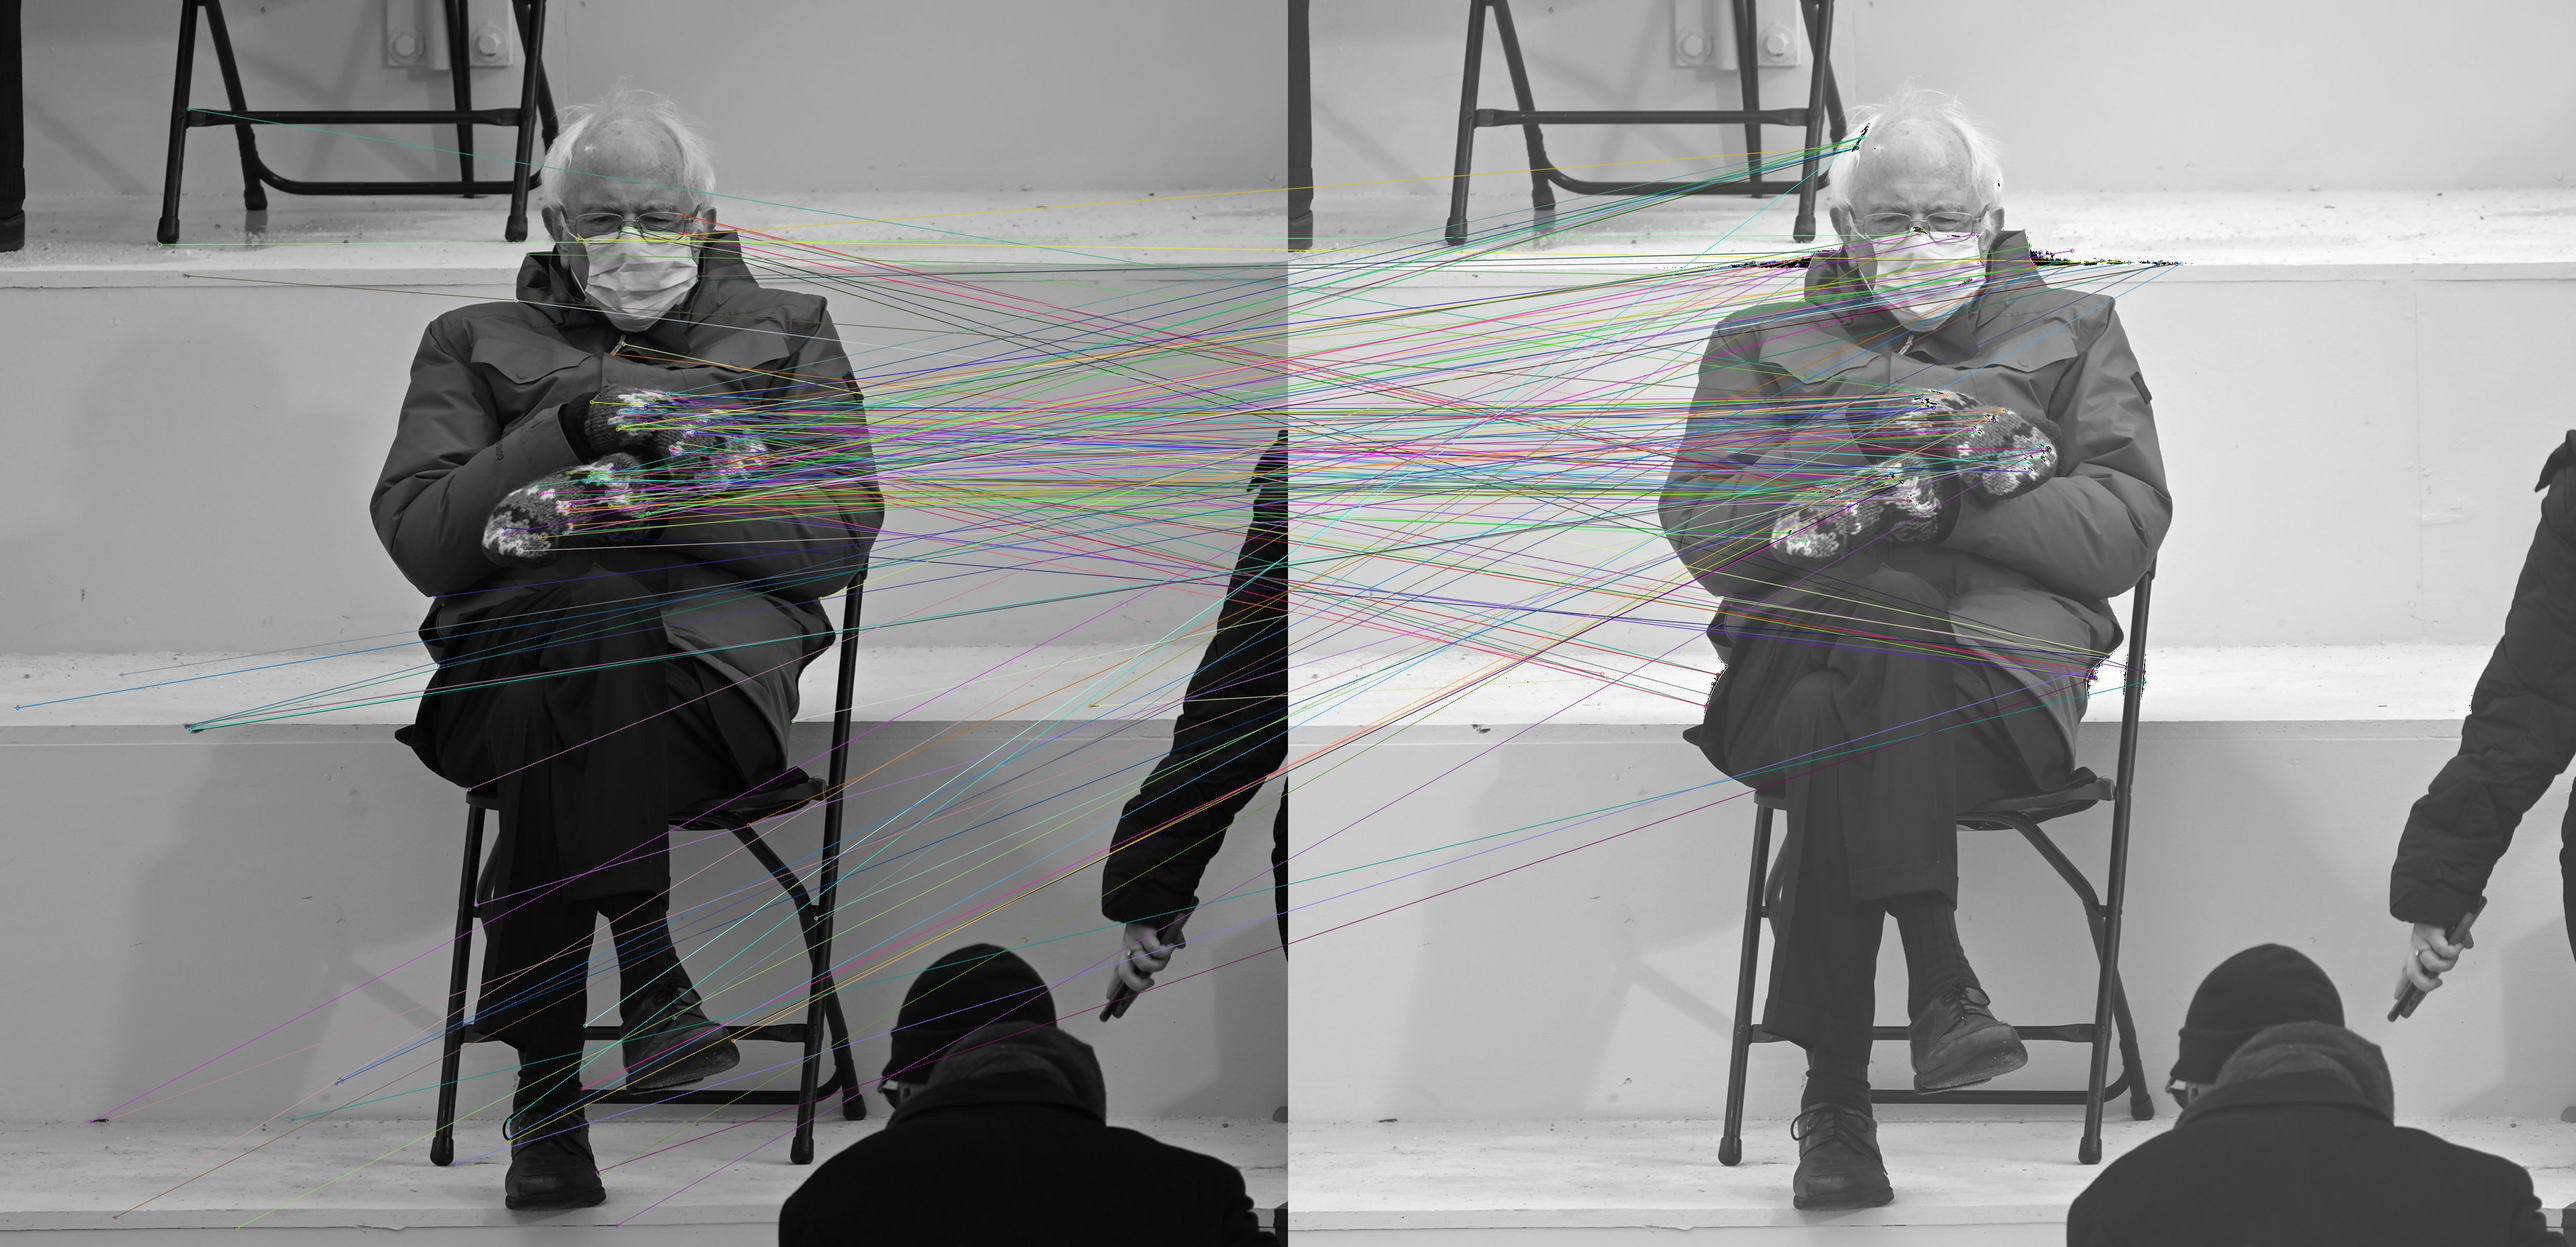
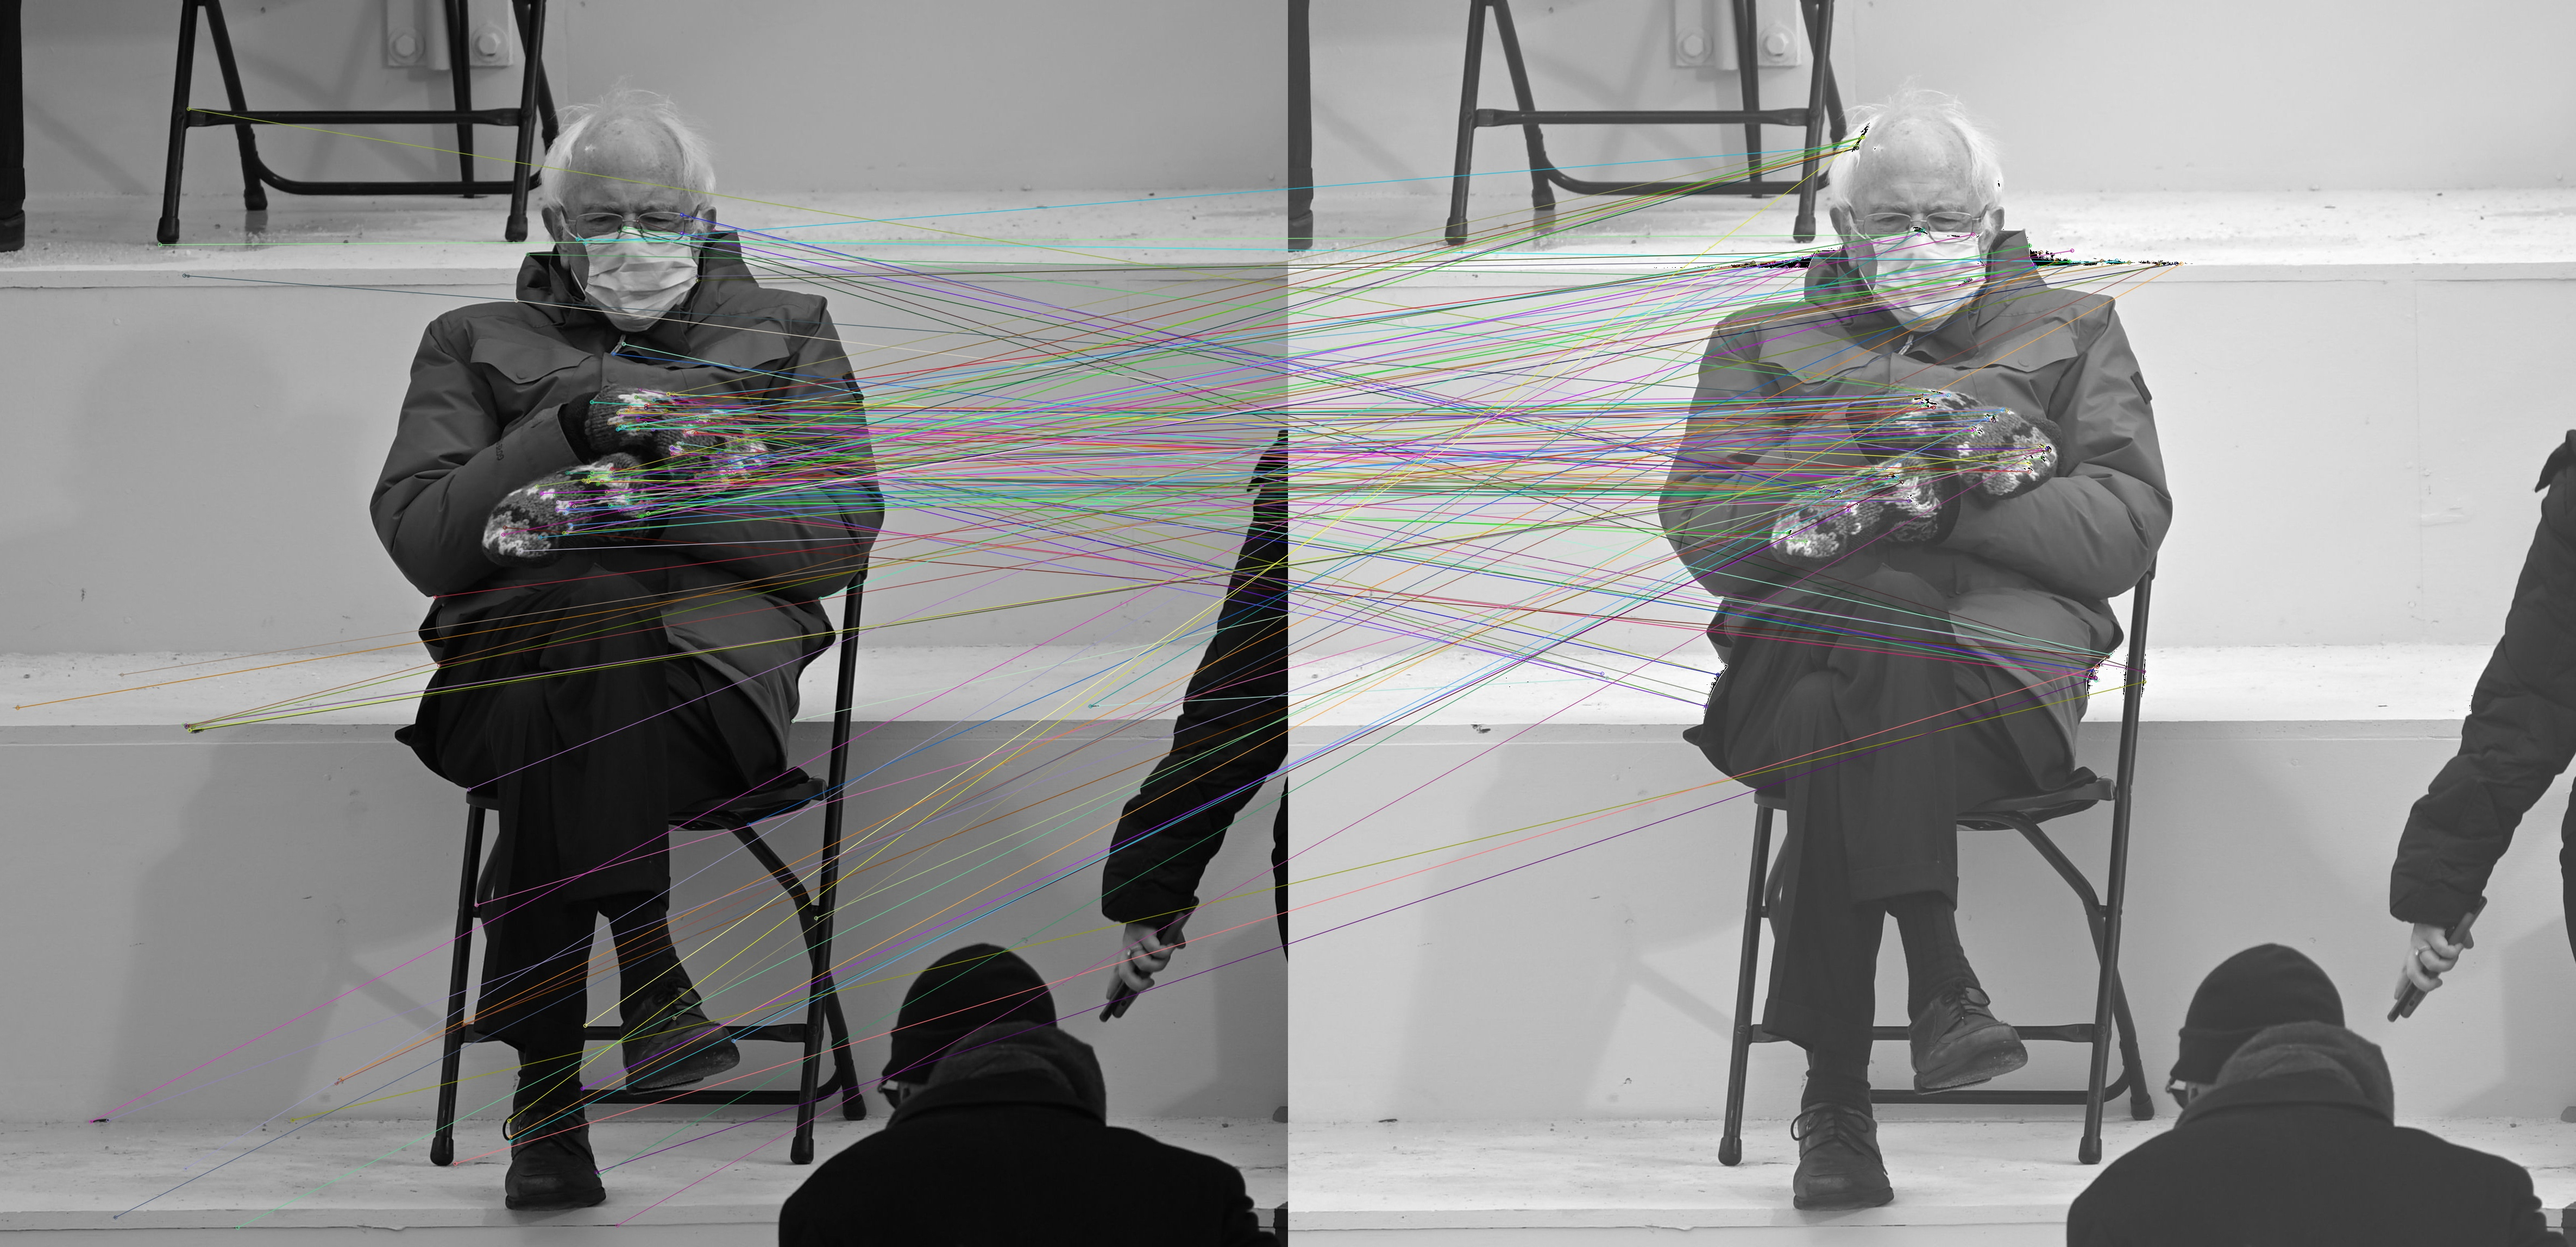
Changes, Turn and Face the Strange

diff --git a/bernie.py b/bernie.py
@@ -49,44 +49,51 @@ def ThresholdPoints(points, threshold):
     max = np.max(points)
     points = points * (points > max * threshold)
     return points
-    
+
 def GetThresholdPoints(points):
     '''Get the Number of Items lt that Threshold value '''
     arr = []
+    increments = [0.05 * i for i in range(1, 21)]  # Generate increments from 0.05 to 1.0 in steps of 0.05
 
-    for threshold in range(int(np.max(points)) + 1):
-        binary_image = points > threshold
+    max = np.max(points)
+
+    for inc in increments:
+        binary_image = points/max > inc
     
         # Count the number of keypoints
         num_keypoints = np.sum(binary_image)
 
         arr.append(num_keypoints)
 
-    return arr
+    return increments, arr
 
-def PlotGraph(points):
+def PlotGraph(points, path):
 
-    vals = GetThresholdPoints(points)
+    x, y = GetThresholdPoints(points)
 
     # Plot the Effect of the Threshold Value being Changed
-    plt.plot(vals)
+    plt.plot(x, y)
     plt.xlabel('Threshold Value')
     plt.ylabel('Number of Keypoints')
     plt.title('Number of Keypoints vs. Threshold Value')
     plt.grid(True)
-    plt.savefig("KeyPointsvThreshold.png")
+    plt.savefig("ThresholdGraphs/" + path)
+    plt.clf()
 
-def FeatureDescription(img, kp):
+def FeatureDescription(img, kp, path):
     # Initiate ORB detector
     orb = cv2.ORB_create()
 
     kps = ConvertToKeyPoints(kp)
     kps, my_des = orb.compute(img, kps)
+    img2 = cv2.drawKeypoints(img, kps, None, color=(0,255,0), flags=0)
+    cv2.imwrite("MyKeyPoints/" + path, img2)
 
 
     kp = orb.detect(img,None)
-
     kp, des = orb.compute(img, kp)
+    img2 = cv2.drawKeypoints(img, kp, None, color=(0,255,0), flags=0)
+    cv2.imwrite("ORBKeyPoints/" + path, img2)
 
     return my_des, kps
 
@@ -103,17 +110,18 @@ def ConvertToKeyPoints(arr):
 
 def ProcessImage(path):
     '''Return the Feature Descriptors and KPs'''
-    points, orien = HarrisPointDetector(path)
+    points, orien = HarrisPointDetector("Bernies/" + path)
+    PlotGraph(points, path)
     points = ThresholdPoints(points, 0.04)
-    bernie = ReadImage(path)
-    des, points = FeatureDescription(bernie, points)
+    bernie = ReadImage("Bernies/" + path)
+    des, points = FeatureDescription(bernie, points, path)
     return points, des
 
-def ssd(p1, p2):
+def SSD(p1, p2):
     # Get the Distance Between
     return np.linalg.norm(p1 - p2)
 
-def best_match(p1s, p2s, d1s, d2s, ratio):
+def BestMatch(p1s, p2s, d1s, d2s, ratio):
     '''Get the Best Matching Feature in Both'''
 
     arr = [[0 for _ in range(len(p2s))] for _ in range(len(p1s))]
@@ -121,7 +129,7 @@ def best_match(p1s, p2s, d1s, d2s, ratio):
     for i in range(len(d1s)):
         for j in range(len(d2s)):
             # Calculate the Distance Between Every Feature
-            arr[i][j] = ssd(d1s[i], d2s[j])
+            arr[i][j] = SSD(d1s[i], d2s[j])
 
     matches = []
 
@@ -145,7 +153,7 @@ def best_match(p1s, p2s, d1s, d2s, ratio):
     # Return the Points that Are Relevant to This
     return matches
 
-def draw_lines(img1, img2, p1, p2, matches):
+def DrawLines(img1, img2, p1, p2, matches):
     ref = ReadImage(img1)
     curr = ReadImage(img2)
 
@@ -153,23 +161,25 @@ def draw_lines(img1, img2, p1, p2, matches):
 
     return matched_img
 
+def PlotRatios():
+    pass # TODO:: IMPLEMENT
+
 ims = ['bernie180.jpg', 'darkerBernie.jpg',
        'bernieBenefitBeautySalon.jpeg', 'BernieFriends.png', 
        'bernieMoreblurred.jpg', 'bernieNoisy2.png', 
        'berniePixelated2.png', 'bernieShoolLunch.jpeg', 
        'brighterBernie.jpg']
 
-kps, des = ProcessImage("Bernies/bernieSanders.jpg")
+kps, des = ProcessImage("bernieSanders.jpg")
 
 for im in ims:
-    kps_temp, des_temp = ProcessImage("Bernies/" + im)
+    kps_temp, des_temp = ProcessImage(im)
 
     # Now get the Matches
-    matches = best_match(kps, kps_temp, des, des_temp, 0.7)
+    matches = BestMatch(kps, kps_temp, des, des_temp, 0.7)
 
-    mi = draw_lines("Bernies/bernieSanders.jpg", "Bernies/" + im, kps, kps_temp, matches)
+    mi = DrawLines("Bernies/bernieSanders.jpg", "Bernies/" + im, kps, kps_temp, matches)
 
     # Save this Image
     cv2.imwrite("OutputFiles/" + im, mi)
-
 
